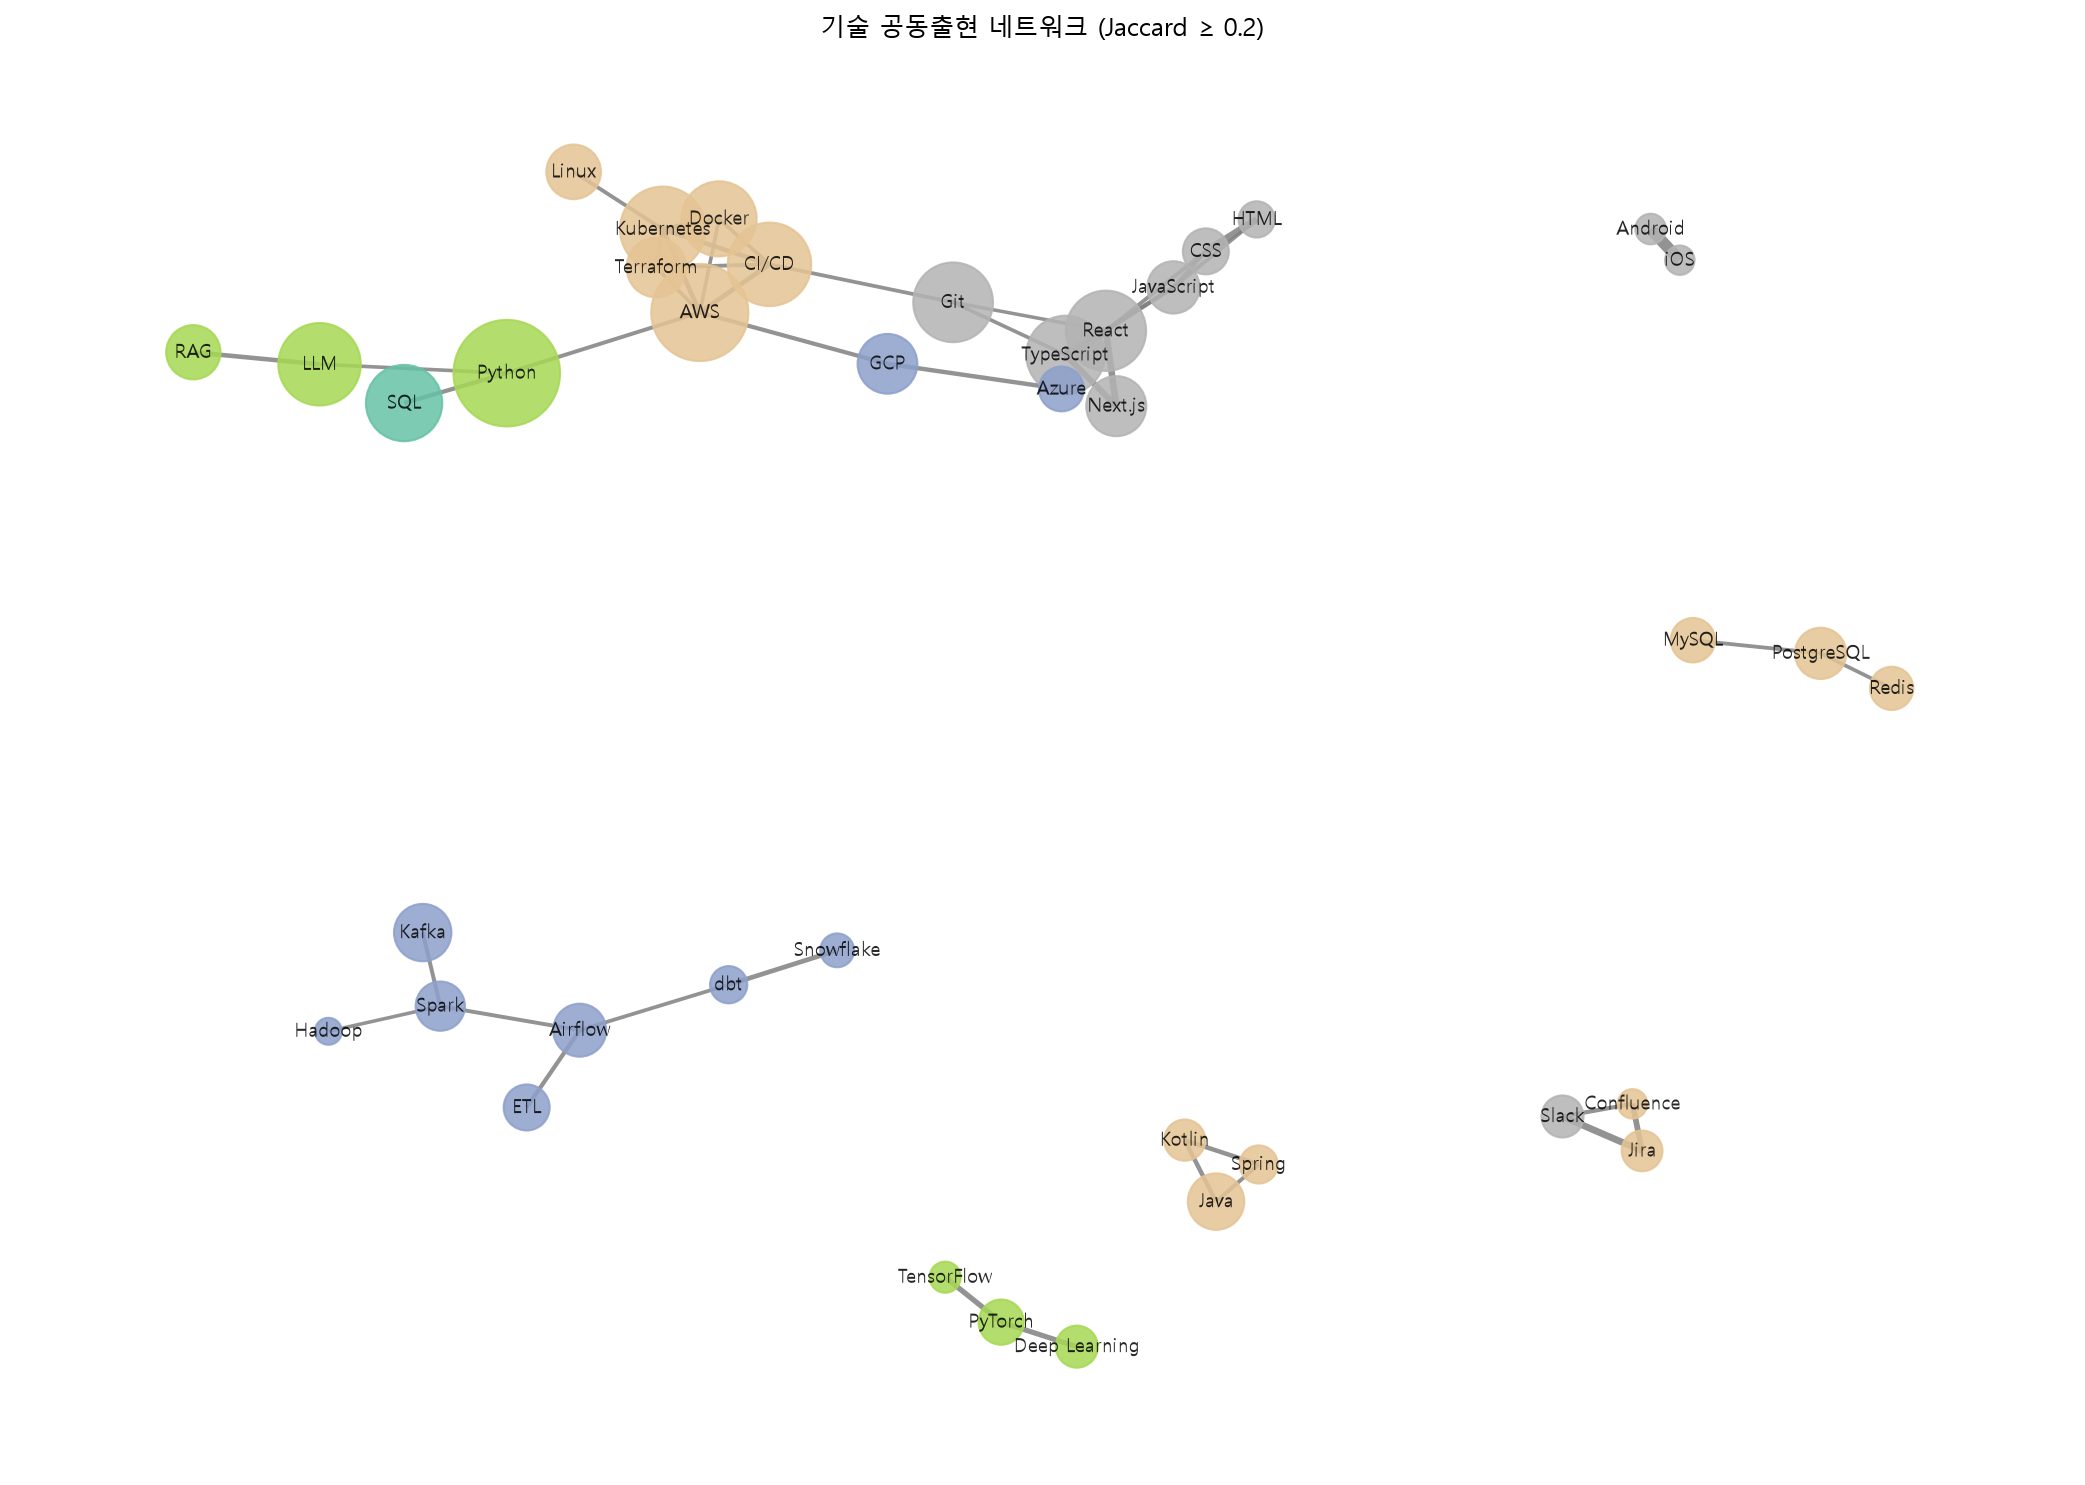
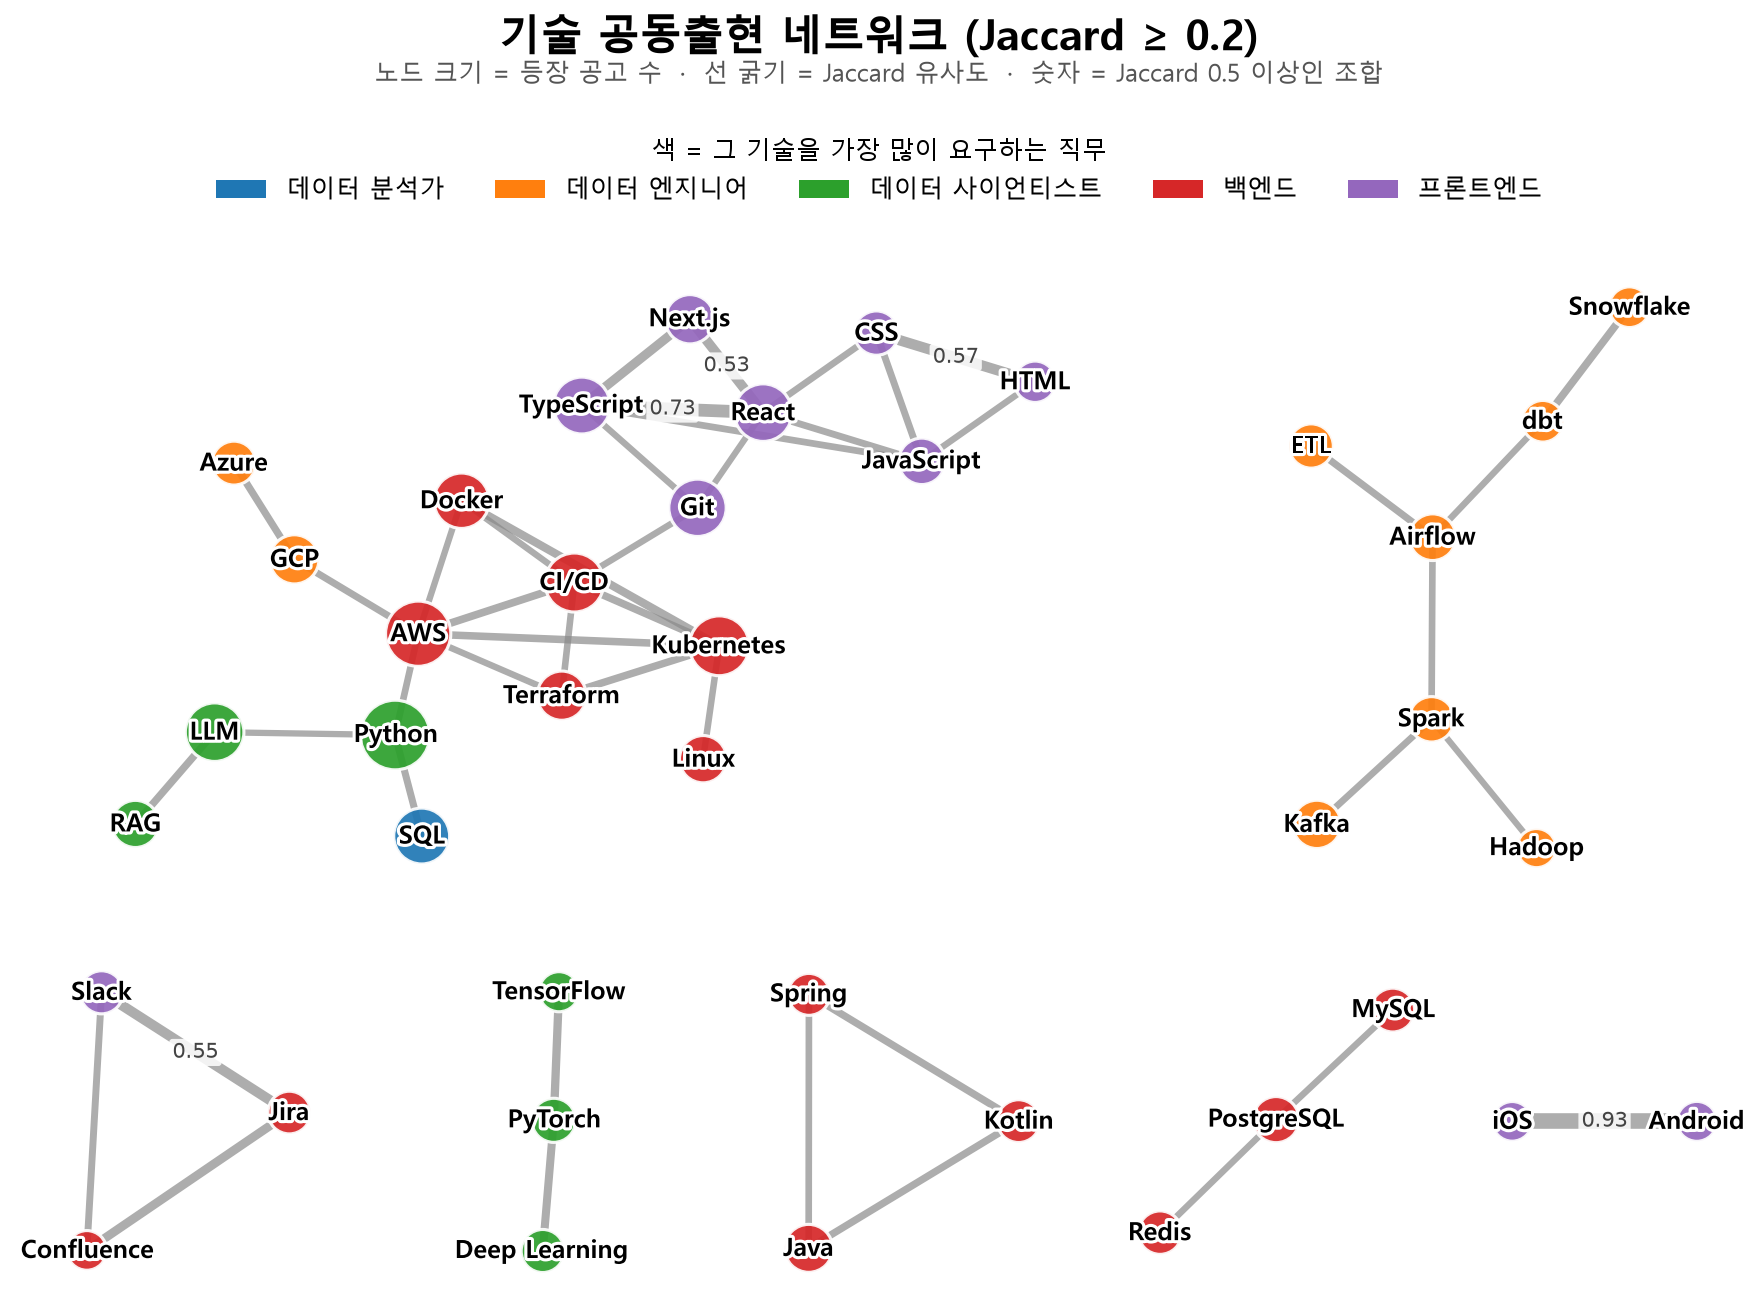
feat: 기술 공동출현 네트워크 그림 가독성 개선

diff --git a/docs/story.html b/docs/story.html
@@ -237,7 +237,7 @@
 
     <figure>
       <img src="../outputs/figures/pc_a4_network.png" alt="Jaccard 유사도 0.2 이상인 기술 조합의 공동출현 네트워크" loading="lazy">
-      <figcaption>노드 크기는 등장 공고 수, 연결선은 함께 요구되는 관계입니다.</figcaption>
+      <figcaption>노드 크기는 등장 공고 수, 색은 그 기술을 가장 많이 요구하는 직무, 선이 굵을수록 함께 자주 요구됩니다. 프론트엔드 기술(보라)과 인프라 기술(빨강)이 Git을 거쳐 이어지는 점이 눈에 띕니다.</figcaption>
     </figure>
 
     <p>직무 간 기술 구성의 유사도(코사인)는 데이터 엔지니어가 백엔드와 0.67, 데이터 분석가·데이터 사이언티스트와 각각 0.64로 가장 높았고, 데이터 분석가와 프론트엔드는 0.08로 가장 달랐습니다.</p>

diff --git a/analysis/a4_cooccurrence.py b/analysis/a4_cooccurrence.py
@@ -2,11 +2,182 @@ import itertools
 
 import matplotlib.pyplot as plt
 
+# 글자에 흰 테두리를 두르고, 직무별 색 범례를 만들기 위해 import
+from matplotlib import patheffects
+from matplotlib.patches import Patch
+
 # 관계 데이터를 네트워크 형태의 그래프로 시각화하기 위해 import
 import networkx as nx
 import pandas as pd
 
 import _common as C
+
+
+# =====================================================================
+# 0. 네트워크 그림 그리기 함수
+# =====================================================================
+
+# 직무별 색 (직무별 등장률 그룹 막대그래프와 같은 색을 사용)
+ROLE_COLORS = {
+    "data_analyst": "#1f77b4",
+    "data_engineer": "#ff7f0e",
+    "data_scientist": "#2ca02c",
+    "backend": "#d62728",
+    "frontend": "#9467bd",
+}
+
+# 이 값 이상의 Jaccard를 가진 연결선에는 수치를 표시함
+LABEL_JACCARD = 0.5
+
+
+def spread_nodes(pos, min_x, min_y, rounds=300):
+    """
+    글자가 서로 겹치지 않도록 가까운 노드를 서로 밀어낸다.
+    가로로 긴 글자를 고려해 가로(min_x)와 세로(min_y)의 최소 간격을 따로 둔다.
+    """
+
+    names = list(pos.keys())
+
+    for _ in range(rounds):
+        moved = False
+
+        for i in range(len(names)):
+            for j in range(i + 1, len(names)):
+                a = names[i]
+                b = names[j]
+
+                dx = pos[b][0] - pos[a][0]
+                dy = pos[b][1] - pos[a][1]
+
+                # 두 노드 사이 거리를 최소 간격 기준으로 환산 (1보다 작으면 겹침)
+                gap = ((dx / min_x) ** 2 + (dy / min_y) ** 2) ** 0.5
+
+                if gap >= 1:
+                    continue
+
+                # 위치가 완전히 같으면 가로로 조금 떼어 놓고 시작
+                if gap == 0:
+                    dx = 0.01
+                    dy = 0.0
+                    gap = dx / min_x
+
+                # 간격이 정확히 1이 되도록 두 노드를 같은 거리만큼 반대쪽으로 이동
+                shift_x = dx / gap - dx
+                shift_y = dy / gap - dy
+
+                pos[a][0] -= shift_x / 2
+                pos[a][1] -= shift_y / 2
+                pos[b][0] += shift_x / 2
+                pos[b][1] += shift_y / 2
+
+                moved = True
+
+        if not moved:
+            break
+
+    return pos
+
+
+def draw_component(ax, sub, dom_role, skill_counts):
+    """
+    서로 연결된 기술 묶음 하나를 ax에 그린다.
+    노드 크기는 기술이 등장한 공고 수, 노드 색은 그 기술을 가장 많이 요구하는 직무,
+    선 굵기는 Jaccard 유사도를 나타낸다.
+    """
+
+    # 같은 묶음 안에서 노드를 고르게 펼쳐 배치함 (연결 거리 dist가 짧을수록 가깝게 놓임)
+    # 계산 방식에 무작위가 없어 항상 같은 그림이 나옴
+    pos = nx.kamada_kawai_layout(sub, weight="dist")
+
+    # 칸이 가로로 넓은 만큼 노드 배치도 가로로 넓힘 (최대 2배)
+    box = ax.get_position()
+    fig_width, fig_height = ax.figure.get_size_inches()
+    ratio = (box.width * fig_width) / (box.height * fig_height)
+    ratio = max(1.0, min(2.0, ratio))
+
+    for node in pos:
+        pos[node] = [pos[node][0] * ratio, pos[node][1]]
+
+    # 겹치는 글자를 밀어내 간격을 확보함
+    pos = spread_nodes(pos, min_x=0.75, min_y=0.32)
+
+    node_colors = []
+    node_sizes = []
+
+    for node in sub.nodes:
+        node_colors.append(ROLE_COLORS[dom_role[node]])
+        node_sizes.append(300 + skill_counts[node] * 2.5)
+
+    edge_widths = []
+
+    for u, v in sub.edges:
+        edge_widths.append(1 + sub[u][v]["weight"] * 7)
+
+    nx.draw_networkx_edges(
+        sub,
+        pos,
+        ax=ax,
+        width=edge_widths,
+        edge_color="#8a8a8a",
+        alpha=0.7,
+    )
+
+    nx.draw_networkx_nodes(
+        sub,
+        pos,
+        ax=ax,
+        node_color=node_colors,
+        node_size=node_sizes,
+        alpha=0.92,
+        linewidths=1.5,
+        edgecolors="white",
+    )
+
+    labels = nx.draw_networkx_labels(
+        sub,
+        pos,
+        ax=ax,
+        font_size=12,
+        font_weight="bold",
+        font_family=plt.rcParams["font.family"],
+        clip_on=False,
+    )
+
+    # 노드가 겹쳐도 글자가 읽히도록 흰 테두리를 두름
+    for text in labels.values():
+        text.set_path_effects([patheffects.withStroke(linewidth=3, foreground="white")])
+
+    # 결합이 강한 연결선에는 Jaccard 수치를 표시
+    strong_edges = {}
+
+    for u, v in sub.edges:
+        weight = sub[u][v]["weight"]
+
+        if weight >= LABEL_JACCARD:
+            strong_edges[(u, v)] = f"{weight:.2f}"
+
+    nx.draw_networkx_edge_labels(
+        sub,
+        pos,
+        edge_labels=strong_edges,
+        ax=ax,
+        font_size=10,
+        font_color="#444444",
+        rotate=False,
+        bbox={"boxstyle": "round,pad=0.15", "fc": "white", "ec": "none", "alpha": 0.85},
+    )
+
+    # 노드가 놓인 범위에 여백을 두어 글자가 잘리지 않게 함
+    xs = []
+    ys = []
+
+    for node in pos:
+        xs.append(pos[node][0])
+        ys.append(pos[node][1])
+
+    ax.set_xlim(min(xs) - 0.5, max(xs) + 0.5)
+    ax.set_ylim(min(ys) - 0.3, max(ys) + 0.3)
+    ax.axis("off")
 
 
 # =====================================================================
@@ -173,6 +344,8 @@ def main():
             row["skill_a"],
             row["skill_b"],
             weight=row["jaccard"],
+            # 그림에서 두 기술을 놓을 거리 (Jaccard가 높을수록 가깝게, 너무 겹치지 않게 최소 거리를 둠)
+            dist=1.4 - row["jaccard"],
         )
 
     # 연결이 없는 노드 제거
@@ -182,42 +355,108 @@ def main():
     # 10. 네트워크 시각화
     # =================================================================
 
-    fig, ax = plt.subplots(
-        figsize=(14, 10),
+    # 노드 크기에 사용할 기술별 등장 공고 수
+    skill_counts = {}
+
+    for node in G.nodes:
+        skill_counts[node] = int(colsum[skill_cols.index(node)])
+
+    # 서로 연결된 기술 묶음을 큰 순서로 정렬함
+    # 연결되지 않은 묶음을 한 그림에 같이 그리면 서로 멀리 흩어지므로, 묶음마다 따로 배치함
+    # 큰 묶음 2개는 위쪽 한 줄, 나머지 작은 묶음은 아래쪽 한 줄에 나란히 놓음
+    components = sorted(nx.connected_components(G), key=len, reverse=True)
+
+    top_row = components[:2]
+    bottom_row = components[2:]
+
+    fig = plt.figure(figsize=(12, 9))
+
+    row_count = 2
+
+    if len(bottom_row) == 0:
+        row_count = 1
+
+    grid = fig.add_gridspec(
+        row_count,
+        1,
+        height_ratios=[2.1, 1][:row_count],
+        hspace=0.04,
+        top=0.82,
+        bottom=0.03,
+        left=0.02,
+        right=0.98,
     )
 
-    pos = nx.spring_layout(
-        G,
-        seed=42,
+    top_widths = []
+
+    for comp in top_row:
+        top_widths.append(len(comp) + 4)
+
+    top_grid = grid[0].subgridspec(1, len(top_row), width_ratios=top_widths, wspace=0.05)
+
+    panels = []
+
+    for index, comp in enumerate(top_row):
+        panels.append((fig.add_subplot(top_grid[0, index]), comp))
+
+    if len(bottom_row) > 0:
+        bottom_widths = []
+
+        for comp in bottom_row:
+            bottom_widths.append(len(comp) + 2)
+
+        bottom_grid = grid[1].subgridspec(1, len(bottom_row), width_ratios=bottom_widths, wspace=0.05)
+
+        for index, comp in enumerate(bottom_row):
+            panels.append((fig.add_subplot(bottom_grid[0, index]), comp))
+
+    for ax, comp in panels:
+        # 묶음의 노드를 G에 들어 있는 순서대로 담아 항상 같은 그림이 나오게 함
+        # (집합은 실행할 때마다 순회 순서가 달라져 배치 계산의 시작 위치가 바뀜)
+        sub = nx.Graph()
+
+        for node in G.nodes:
+            if node in comp:
+                sub.add_node(node)
+
+        for u, v, data in G.edges(data=True):
+            if u in comp and v in comp:
+                sub.add_edge(u, v, **data)
+
+        draw_component(ax, sub, dom_role, skill_counts)
+
+    # 제목, 읽는 법, 직무별 색 범례
+    fig.suptitle(
+        "기술 공동출현 네트워크 (Jaccard ≥ 0.2)",
+        fontsize=20,
+        fontweight="bold",
+        y=0.975,
     )
 
-    role_index = {role: i for i, role in enumerate(C.ROLE_ORDER)}
-
-    node_colors = [role_index[dom_role[node]] for node in G.nodes]
-
-    node_sizes = [int(colsum[skill_cols.index(node)]) * 8 for node in G.nodes]
-
-    edge_widths = [G[u][v]["weight"] * 6 for u, v in G.edges]
-
-    nx.draw_networkx(
-        G,
-        pos,
-        ax=ax,
-        node_color=node_colors,
-        node_size=node_sizes,
-        width=edge_widths,
-        cmap=plt.cm.Set2,
-        font_family=plt.rcParams["font.family"],
-        font_size=9,
-        edge_color="gray",
-        alpha=0.85,
+    fig.text(
+        0.5,
+        0.925,
+        "노드 크기 = 등장 공고 수  ·  선 굵기 = Jaccard 유사도  ·  숫자 = Jaccard 0.5 이상인 조합",
+        ha="center",
+        fontsize=12,
+        color="#555555",
     )
 
-    ax.set_title("기술 공동출현 네트워크 (Jaccard ≥ 0.2)")
+    legend_handles = []
 
-    ax.axis("off")
+    for role in C.ROLE_ORDER:
+        legend_handles.append(Patch(facecolor=ROLE_COLORS[role], label=C.ROLE_KO[role]))
 
-    plt.tight_layout()
+    fig.legend(
+        handles=legend_handles,
+        title="색 = 그 기술을 가장 많이 요구하는 직무",
+        loc="upper center",
+        bbox_to_anchor=(0.5, 0.9),
+        ncol=len(legend_handles),
+        frameon=False,
+        fontsize=12,
+        title_fontsize=12,
+    )
 
     # =================================================================
     # 11. 네트워크 그래프 저장
@@ -281,3 +520,10 @@ if __name__ == "__main__":
 # 실행 로그는 run_all.py가 outputs/logs/에 파일로 저장함
 
 # 구현 핵심의 Python + AWS, Android + iOS, TypeScript + React 수치를 재실행 결과에 맞게 갱신함
+
+# 네트워크 그림에서 연결되지 않은 묶음이 화면 전체에 흩어지고 글자가 작고 겹쳐 읽기 어려운 문제를 개선함
+# 연결된 기술 묶음마다 따로 배치해 큰 묶음 2개는 위쪽, 작은 묶음은 아래쪽 한 줄에 놓음
+# 노드를 고르게 펼치는 배치(Kamada-Kawai)를 쓰고, 글자가 겹치면 서로 밀어내는 간격 조정을 추가함
+# 글자는 키우고 흰 테두리를 둘러 겹쳐도 읽히게 했으며, 직무별 색 범례와 읽는 법 설명을 추가함
+# Jaccard 0.5 이상인 연결선에는 수치를 표시함
+# 노드 순서를 집합이 아닌 G에 들어 있는 순서로 고정해 실행할 때마다 같은 그림이 나오는 것을 확인함
